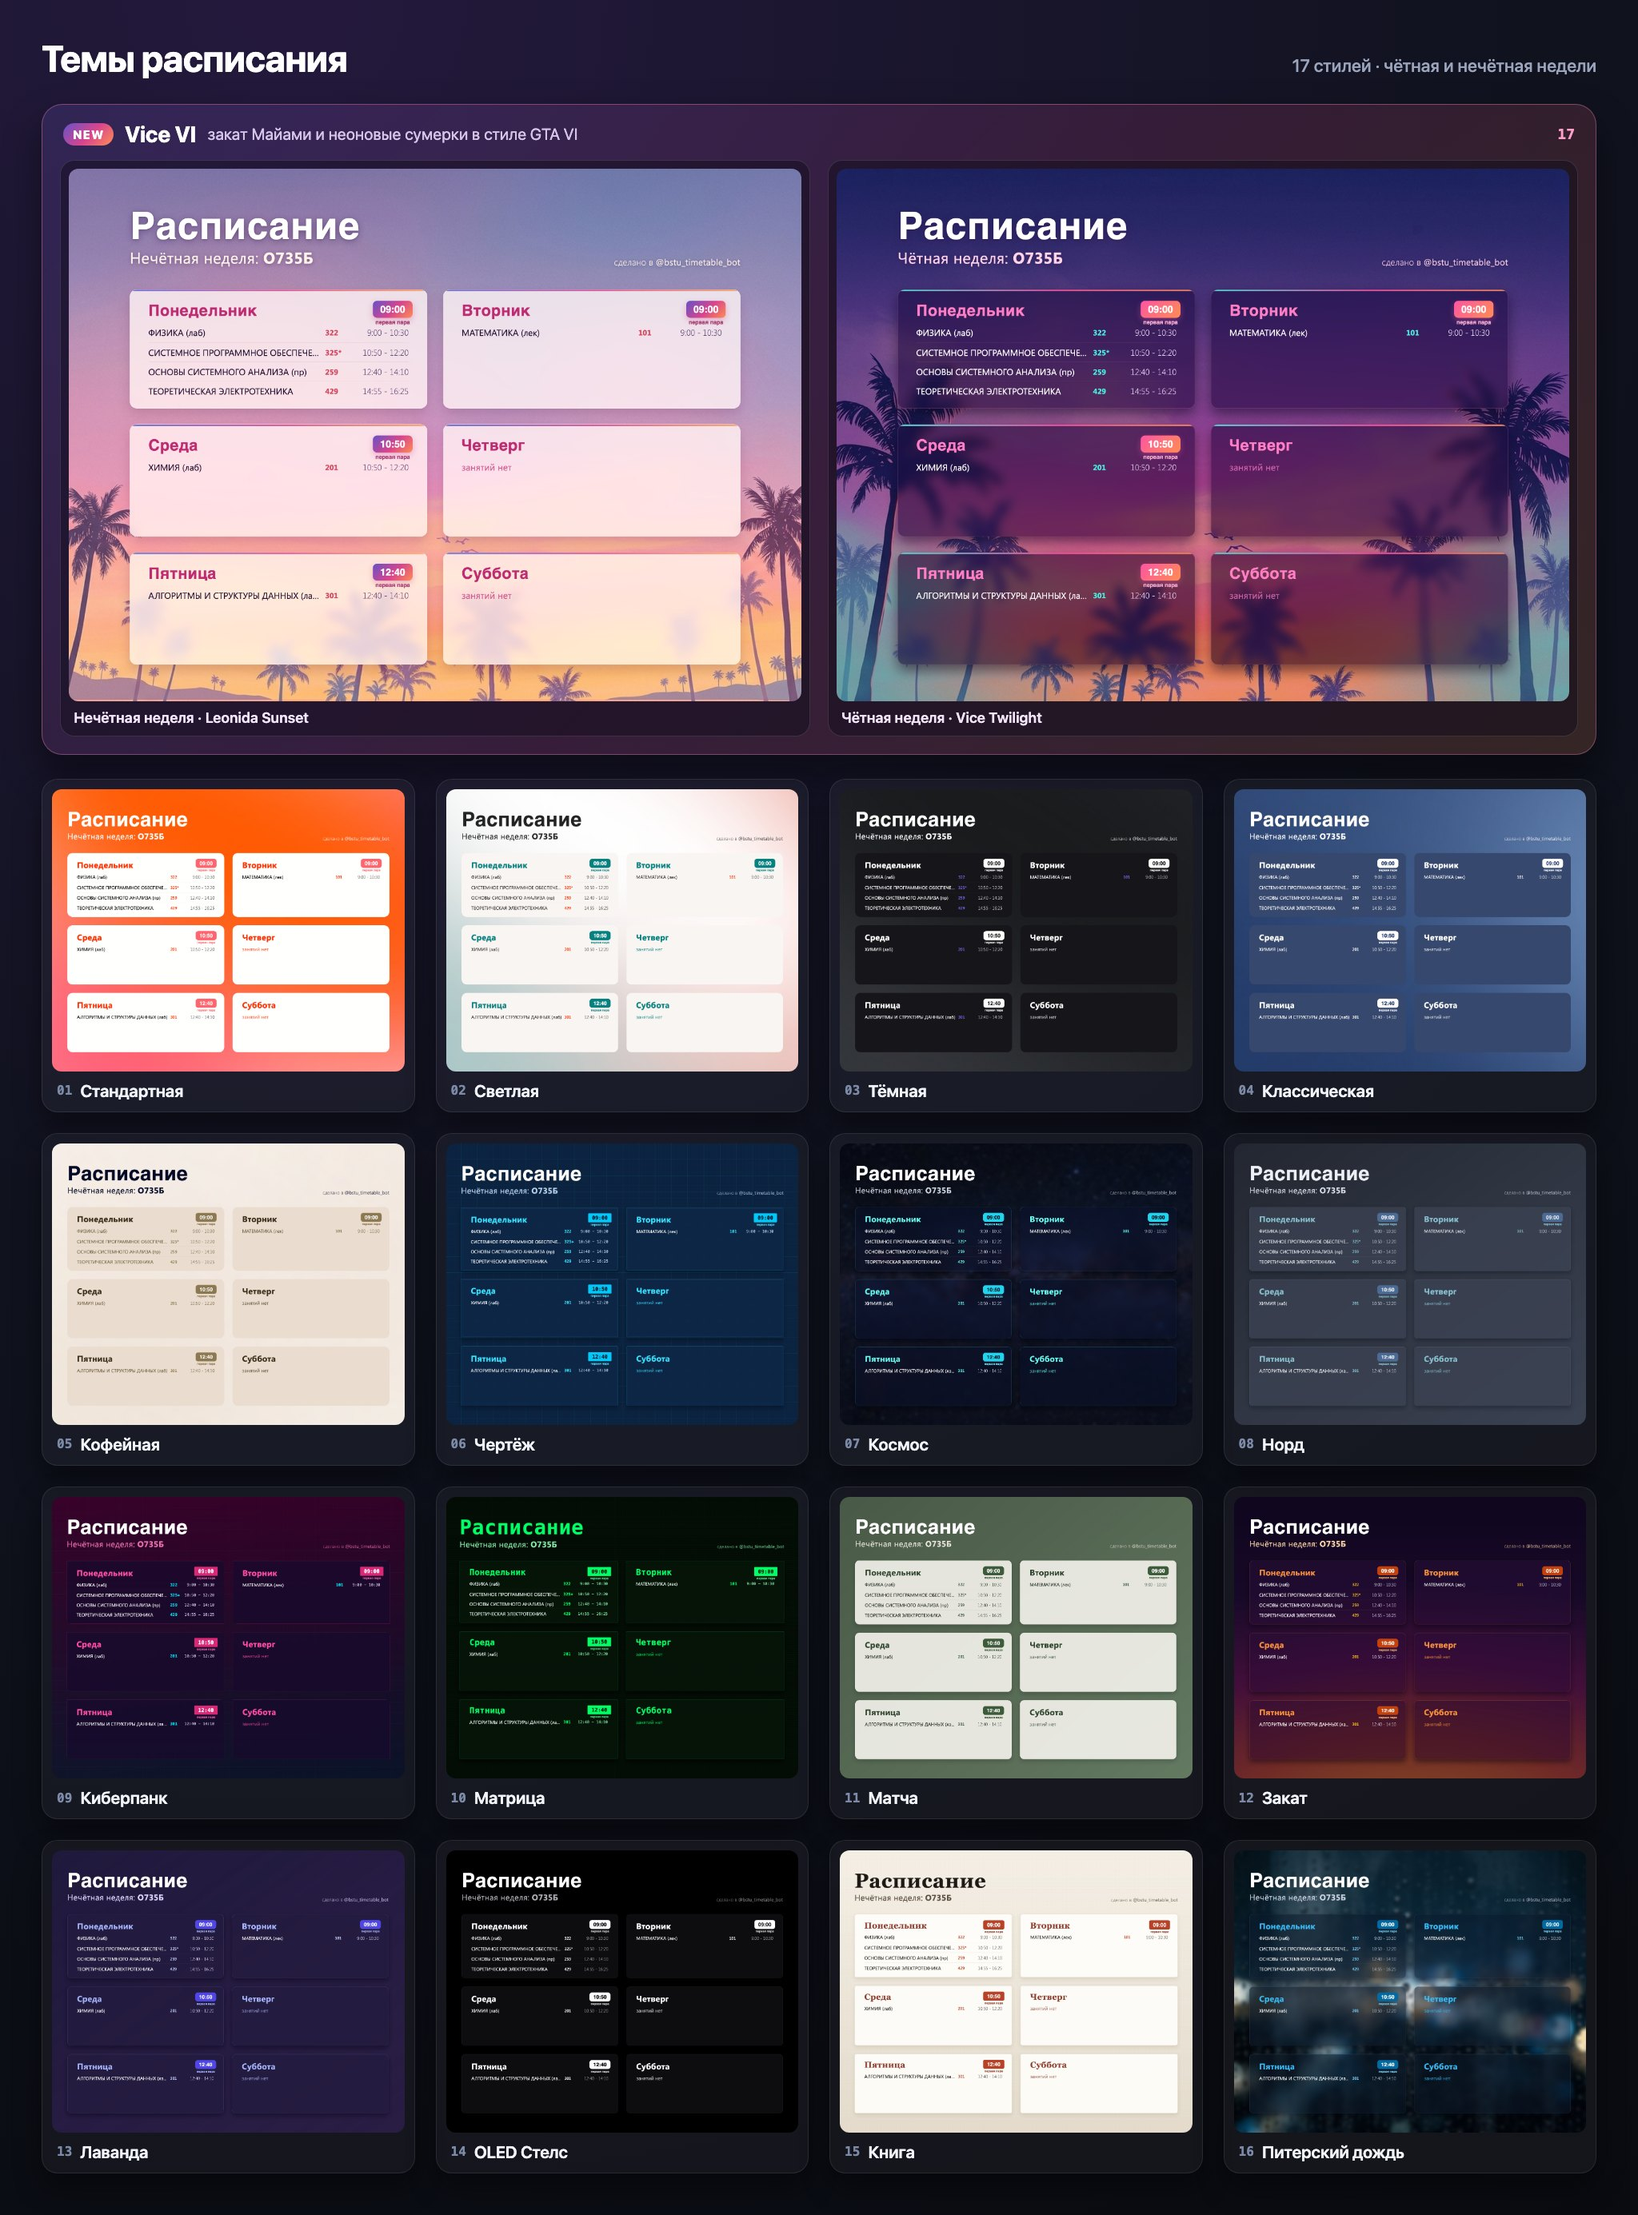
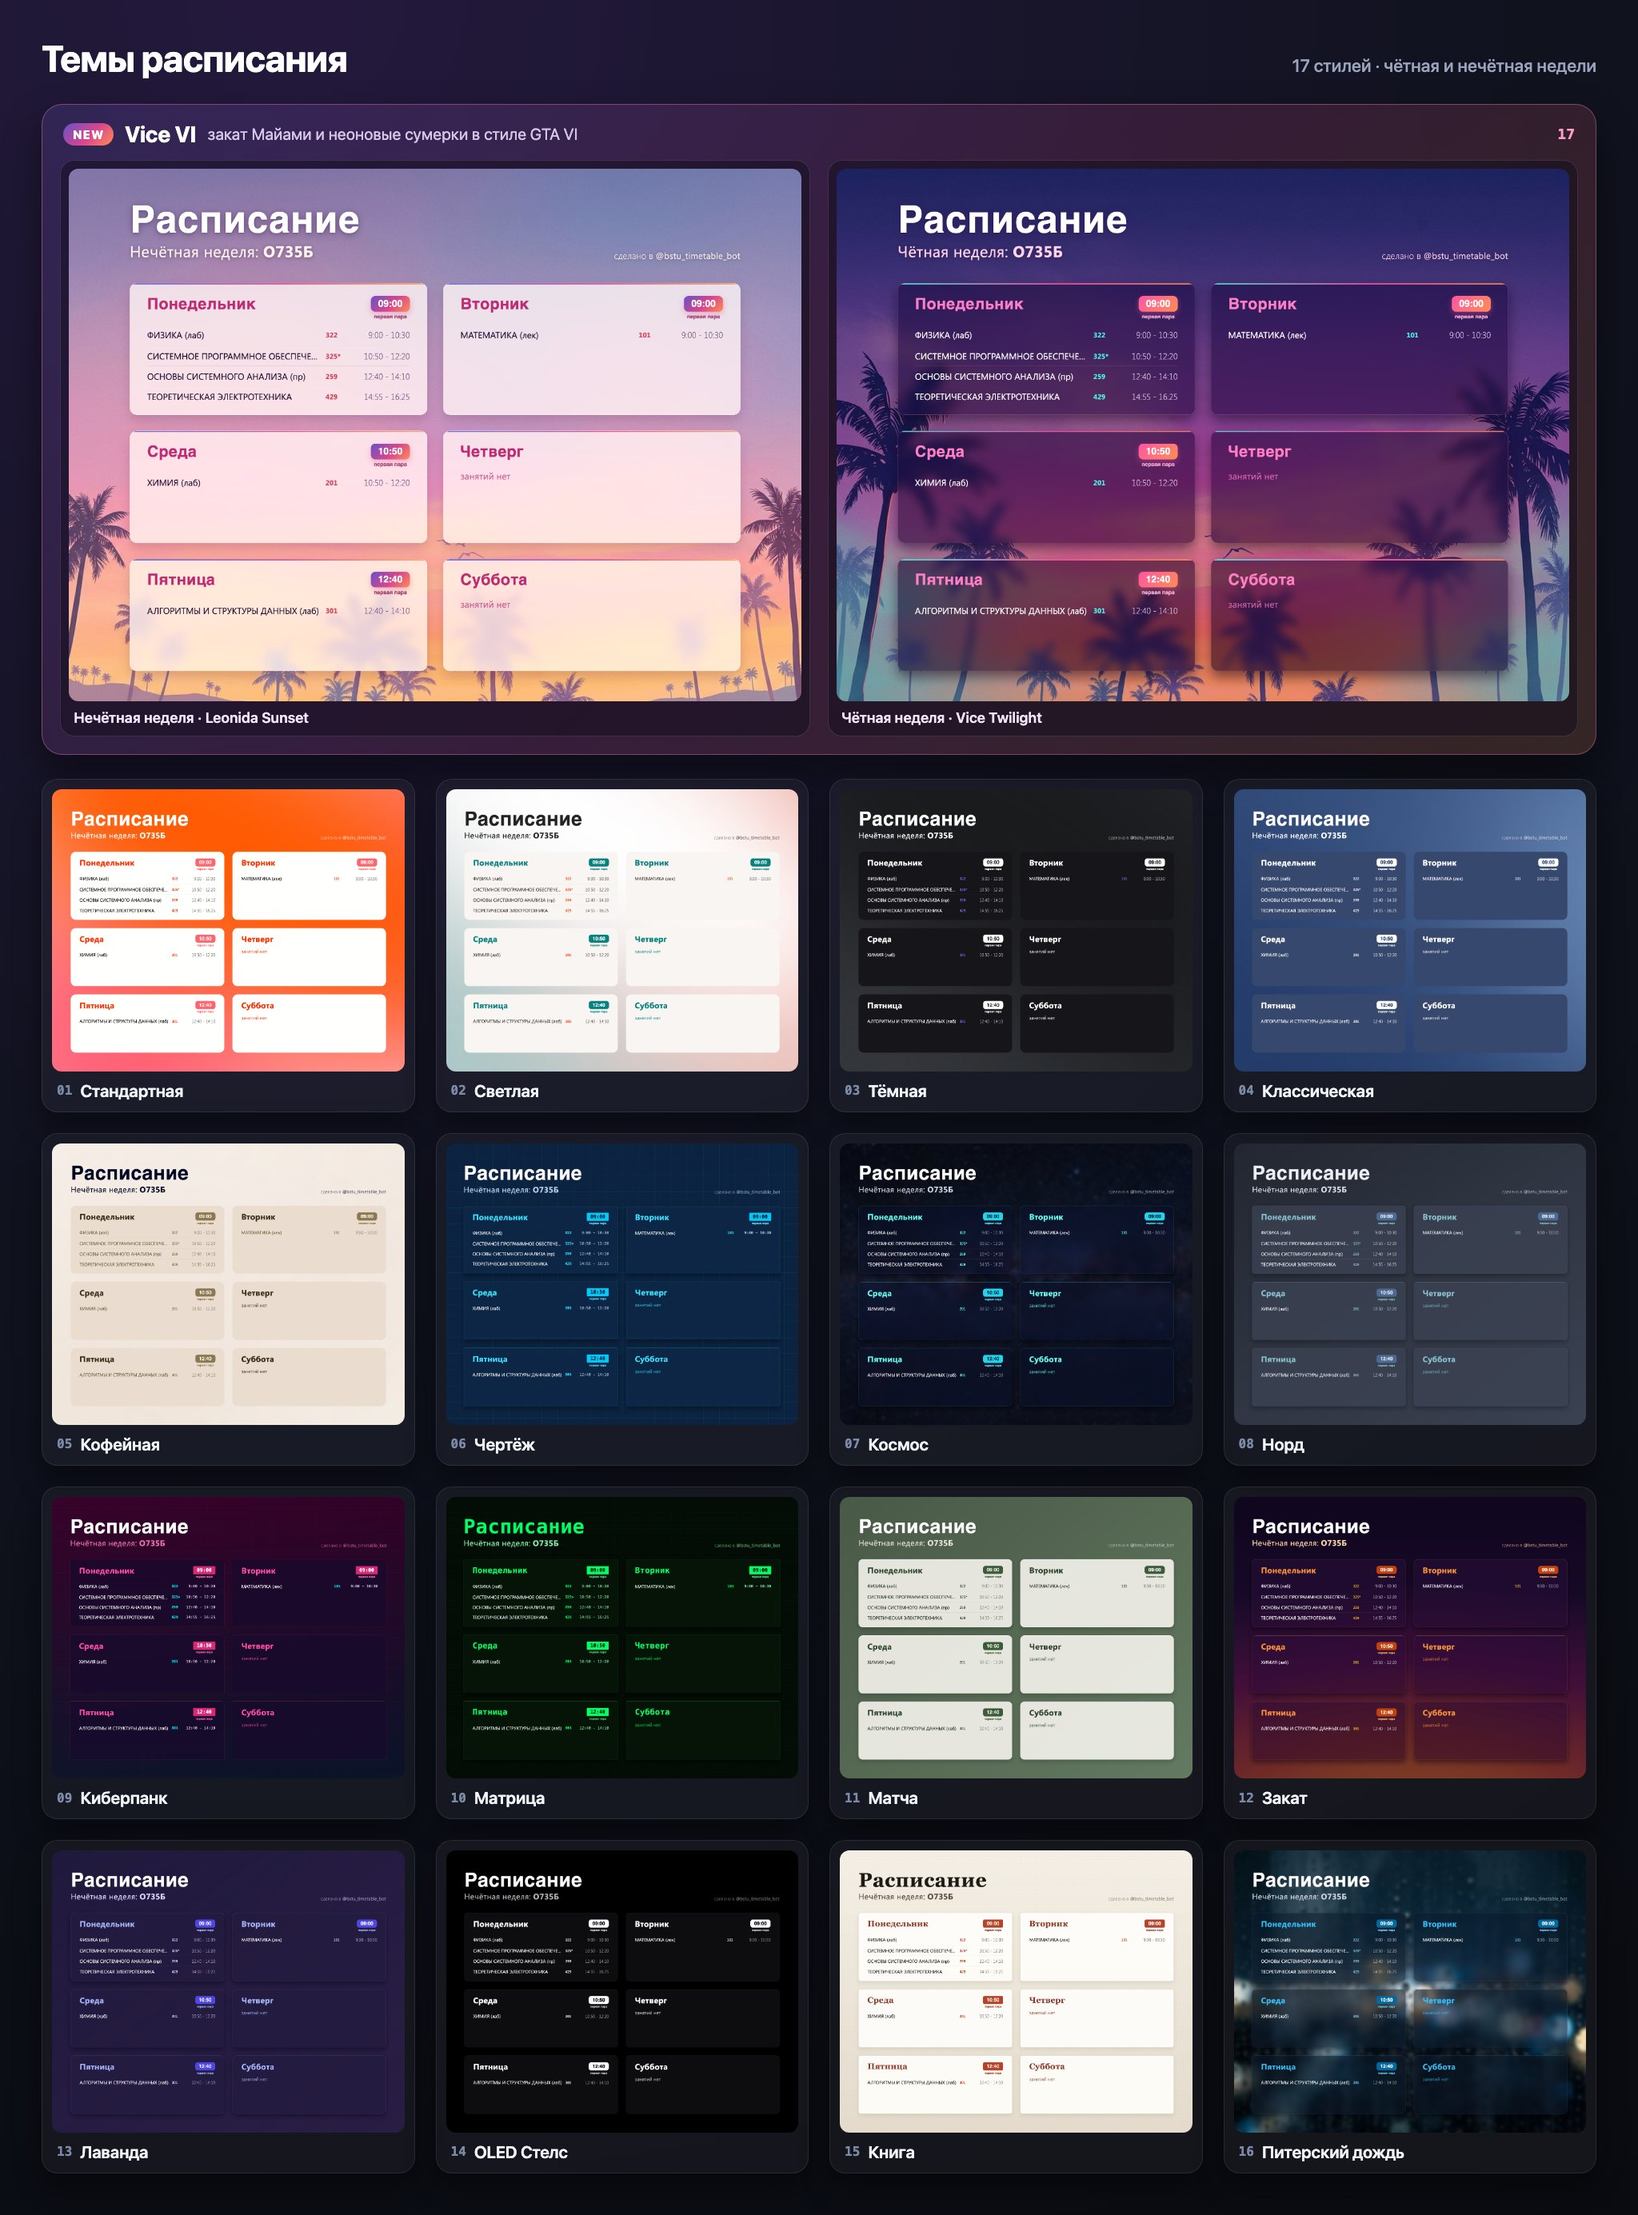
fix(ui): align day card header, badge optical centering, and symmetric padding

diff --git a/templates/schedule_template.html b/templates/schedule_template.html
@@ -864,15 +864,12 @@
 
     /* --- 5. Стилизация компонентов --- */
 
-    /* Стили самой карточки: фон, скругления, отступы. */
-    /* position: relative; — нужно, чтобы абсолютно позиционировать плашку с временем. */
-    /* display: flex; flex-direction: column; — выстраивает контент карточки в колонку. */
-    /* justify-content: center; — ВЕРТИКАЛЬНО ЦЕНТРИРУЕТ контент, если его мало (как во Вторник). */
+    /* Стили самой карточки: фон, скругления, симметричные отступы. */
     .day-card {
       position: relative;
       background: var(--color-card-bg);
       border-radius: 4rem;
-      padding: 4.8rem 7.5rem;
+      padding: 5.2rem 7rem;
       display: flex;
       flex-direction: column;
       justify-content: flex-start;
@@ -883,22 +880,32 @@
       -webkit-backdrop-filter: var(--card-backdrop-filter, none);
     }
 
+    /* Шапка карточки: название дня слева и плашка первой пары справа в одном потоке. */
+    .day-header {
+      display: flex;
+      align-items: flex-start;
+      justify-content: space-between;
+      gap: 3rem;
+      margin-bottom: 3.4rem;
+    }
+
     /* Заголовок дня недели (Понедельник, Вторник и т.д.). */
-    /* margin-bottom добавляет нужный отступ до списка пар. */
+    /* Высота строки совпадает с высотой плашки времени, чтобы заголовок и бейдж были строго на одной оси. */
     .day-title {
       font-weight: 700;
       font-size: 6.4rem;
+      line-height: 6.4rem;
       letter-spacing: 0.096rem;
       color: var(--card-day-title);
-      margin-bottom: 2.6rem;
-      padding-right: 18rem;
+      margin: 0;
+      padding: 0;
     }
 
     /* Контейнер для всех строк с парами. */
     .lessons-list {
       display: flex;
       flex-direction: column;
-      gap: 1.6rem;
+      gap: 1.8rem;
     }
 
     /* Ключевой элемент: строка с информацией о паре. */
@@ -909,12 +916,12 @@
       align-items: center;
       column-gap: 2rem;
       font-size: 3.6rem;
-      min-height: 5.2rem;
+      min-height: 5.4rem;
     }
 
     .lesson-row + .lesson-row {
       border-top: 1px solid var(--row-divider, rgba(128, 128, 128, 0.16));
-      padding-top: 1.6rem;
+      padding-top: 1.8rem;
     }
 
     /* Левый блок: предмет + преподаватель (колонки 1-8 без смещения аудитории и времени) */
@@ -985,17 +992,12 @@
       margin-top: 0.8rem;
     }
 
-    /* Плашка с временем первой пары. */
-    /* position: absolute; — "вырывает" плашку из общего потока и позволяет разместить её в углу карточки. */
-    /* top: 4.5rem; right: 6rem; — координаты относительно родительского .day-card. */
+    /* Плашка с временем первой пары (в потоке .day-header, по правому краю колонки времени). */
     .badge-first-lesson {
-      position: absolute;
-      top: 4.5rem;
-      right: 6rem;
       display: flex;
-      width: 16rem;
       flex-direction: column;
       align-items: center;
+      flex-shrink: 0;
     }
 
     /* Верхняя часть плашки с цифрами времени. */
@@ -1003,21 +1005,29 @@
       background-color: var(--color-badge-bg);
       color: var(--badge-time-color);
       border-radius: 2rem;
-      padding: 1.5rem 3rem;
+      height: 6.4rem;
+      min-width: 16rem;
+      padding: 0 2.8rem 0.25rem;
+      display: inline-flex;
+      align-items: center;
+      justify-content: center;
       font-family: 'Saira', sans-serif;
       font-weight: 700;
-      font-size: 4rem;
+      font-size: 3.9rem;
       line-height: 1;
+      font-variant-numeric: tabular-nums;
     }
 
     /* Нижняя часть плашки с текстом "первая пара". */
     .badge-text {
       font-family: 'Saira', sans-serif;
-      font-size: 2.3rem;
+      font-size: 2.2rem;
       font-weight: 700;
+      line-height: 1.1;
       color: var(--badge-caption-color, var(--color-badge-bg));
       text-transform: lowercase;
-      margin-top: 0.5rem;
+      margin-top: 0.9rem;
+      white-space: nowrap;
     }
 
     .hidden {
@@ -1256,15 +1266,20 @@
         padding: 3rem;
       }
 
-      /* Плашка с временем становится частью потока, а не висит сбоку. */
-      .badge-first-lesson {
-        position: static;
-        margin-bottom: 2rem;
-        align-self: flex-start;
+      /* На узких экранах шапка карточки складывается вертикально. */
+      .day-header {
+        flex-direction: column;
+        align-items: flex-start;
+        gap: 1.6rem;
+        margin-bottom: 2.4rem;
       }
 
       .day-title {
-        padding-right: 0;
+        line-height: 1.1;
+      }
+
+      .badge-first-lesson {
+        align-items: flex-start;
       }
 
       /* В строке с парой скрываем кабинет, чтобы не ломать вёрстку. */
@@ -1315,31 +1330,31 @@
     <section class="days-grid">
       {% for day in schedule_days %}
       <article class="day-card">
-        <div class="badge-first-lesson {% if not day.lessons %}hidden{% endif %}">
-          <div class="badge-time">{{ day.firstStart }}</div>
-          <div class="badge-text">{{ i18n_first_lesson }}</div>
-        </div>
-        <div>
+        <div class="day-header">
           <h2 class="day-title">{{ day.name }}</h2>
-          {% if day.lessons %}
-          <div class="lessons-list">
-            {% for l in day.lessons %}
-            <div class="lesson-row">
-              <div class="lesson-main">
-                <div class="lesson-title" title="{{ l.title }}">{{ l.title }}</div>
-                {% if l.teacher %}<div class="lesson-teacher">{{ l.teacher }}</div>{% endif %}
-              </div>
-              <div class="lesson-room">{{ l.room }}</div>
-              <div class="lesson-time">{{ l.time }}</div>
-            </div>
-            {% endfor %}
+          <div class="badge-first-lesson {% if not day.lessons %}hidden{% endif %}">
+            <div class="badge-time">{{ day.firstStart }}</div>
+            <div class="badge-text">{{ i18n_first_lesson }}</div>
           </div>
-          {% else %}
-          <p class="holiday-text">
-            {{ i18n_no_lessons }}
-          </p>
-          {% endif %}
         </div>
+        {% if day.lessons %}
+        <div class="lessons-list">
+          {% for l in day.lessons %}
+          <div class="lesson-row">
+            <div class="lesson-main">
+              <div class="lesson-title" title="{{ l.title }}">{{ l.title }}</div>
+              {% if l.teacher %}<div class="lesson-teacher">{{ l.teacher }}</div>{% endif %}
+            </div>
+            <div class="lesson-room">{{ l.room }}</div>
+            <div class="lesson-time">{{ l.time }}</div>
+          </div>
+          {% endfor %}
+        </div>
+        {% else %}
+        <p class="holiday-text">
+          {{ i18n_no_lessons }}
+        </p>
+        {% endif %}
       </article>
       {% endfor %}
     </section>
